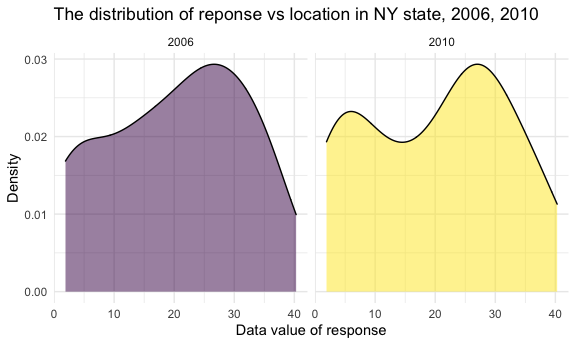
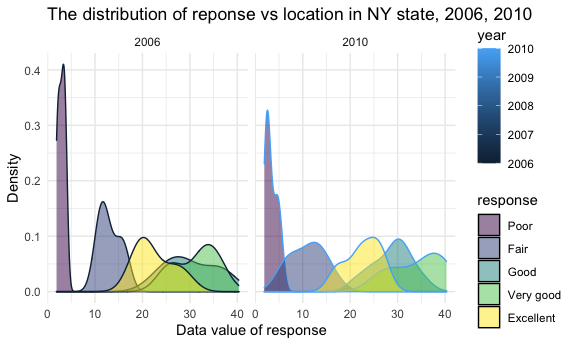
add comment

diff --git a/P8105_hw3_hc3212.md b/P8105_hw3_hc3212.md
@@ -108,6 +108,9 @@ instacart %>%
 
 <img src="P8105_hw3_hc3212_files/figure-gfm/aisle_plot-1.png" width="90%" />
 
+There are 39 aisles have more than 10000 items sold. The plots shows
+from the most item sold aisle to the least one above 10000.
+
 **Make a table showing the three most popular items in each of the
 aisles “baking ingredients”, “dog food care”, and “packaged vegetables
 fruits”. Include the number of times each item is ordered in your
@@ -135,6 +138,14 @@ instacart %>%
 | packaged vegetables fruits | Organic Baby Spinach                          | 9784 |    1 |
 | packaged vegetables fruits | Organic Raspberries                           | 5546 |    2 |
 | packaged vegetables fruits | Organic Blueberries                           | 4966 |    3 |
+
+The top 3 popular item in baking ingredients is Light Brown Sugar, Pure
+Baking Soda, Cane Sugar. The top 3 popular item in dog food care is
+Snake Sticks Chicken & Rice Recipe Dog treats, Organix Chicken & Brown
+Rice, Small Dog Biscuits. The top 3 popular item in packaged vegetables
+fruits is Organic Baby Spinach, Organic Raspberries, Organic
+Blueberries. According to table, we could found that the items number
+has great different between aisles.
 
 **Make a table showing the mean hour of the day at which Pink Lady
 Apples and Coffee Ice Cream are ordered on each day of the week; format
@@ -172,6 +183,11 @@ instacart %>%
 | Coffee Ice Cream |  13.22 |  15.00 |   15.33 |     15.40 |    15.17 |  10.33 |    12.35 |
 | Pink Lady Apples |  12.25 |  11.68 |   12.00 |     13.94 |    11.91 |  13.87 |    11.56 |
 
+The Table shows mean hour of the Coffee Ice Cream and Pink Lady Apples
+sale. It could find that the hour of Pink Lady Apples fluctuate a little
+during the week while the Coffee Ice Cream has higher mean in the
+weekdays.
+
 ## Problem 2
 
 **Load and clean BRFSS data set.**
@@ -196,16 +212,20 @@ brfss_df %>%
   filter(year %in% c("2002", "2010")) %>% 
   group_by(year, locationabbr) %>% 
   summarize(nloc = n_distinct(geo_location)) %>% 
-  filter(nloc > 7) %>% 
+  filter(nloc >= 7) %>% 
   knitr::kable()
 ```
 
 | year | locationabbr | nloc |
 |-----:|:-------------|-----:|
+| 2002 | CT           |    7 |
+| 2002 | FL           |    7 |
 | 2002 | MA           |    8 |
+| 2002 | NC           |    7 |
 | 2002 | NJ           |    8 |
 | 2002 | PA           |   10 |
 | 2010 | CA           |   12 |
+| 2010 | CO           |    7 |
 | 2010 | FL           |   41 |
 | 2010 | MA           |    9 |
 | 2010 | MD           |   12 |
@@ -214,12 +234,14 @@ brfss_df %>%
 | 2010 | NJ           |   19 |
 | 2010 | NY           |    9 |
 | 2010 | OH           |    8 |
+| 2010 | PA           |    7 |
+| 2010 | SC           |    7 |
 | 2010 | TX           |   16 |
 | 2010 | WA           |   10 |
 
-According to the result, 3 states (MA NJ PA) were observed at 7 or more
-locations in 2002, while 11 states (CA FL MA MD NC NE NJ NY OH TX WA)
-were observed at 7 or more locations in 2010.
+According to the result, 6 states (CT FL NC MA NJ PA) were observed at 7
+or more locations in 2002, while 14 states (CA CO FL MA MD NC NE NJ NY
+OH PA SC TX WA) were observed at 7 or more locations in 2010.
 
 **Construct a dataset that is limited to Excellent responses, and
 contains, year, state, and a variable that averages the data_value
@@ -257,6 +279,12 @@ excell_df %>%
 
 <img src="P8105_hw3_hc3212_files/figure-gfm/spaghetti-1.png" width="90%" />
 
+The spaghetti plot shows the fluctuate of data_value together with year.
+From the plot, it could find that, in 2005, there was a decrease trend
+in data value, while it increased soon in the 2006. Though decreased
+again in 2007, in 2008, data value in most state increased again. Most
+of the value are between 20 and 25.
+
 **Make a two-panel plot showing, for the years 2006, and 2010,
 distribution of data_value for responses (“Poor” to “Excellent”) among
 locations in NY State.**
@@ -265,19 +293,23 @@ locations in NY State.**
 brfss_df %>% 
   filter(year %in% c("2006", "2010"),
          locationabbr == "NY") %>%
-  group_by(year) %>% 
-  ggplot(aes(data_value, fill = year)) +
+  group_by(year, response) %>% 
+  ggplot(aes(data_value, fill = response, color = year)) +
   geom_density(alpha = 0.5)+
   facet_grid(.~ year) +
   labs(
     title = "The distribution of reponse vs location in NY state, 2006, 2010",
     y = "Density", 
     x = "Data value of response",
-  ) +
-  theme(legend.position = 'none')
+  )
 ```
 
 <img src="P8105_hw3_hc3212_files/figure-gfm/2006vs2010-1.png" width="90%" />
+
+The density plot shows the distribution of data value. In 2006, the
+response poor has higher density compared to 2010. The peak of other
+response all shift right in 2010 compared to 2006, which means higher
+data value in those response.
 
 ## Problem 3
 
